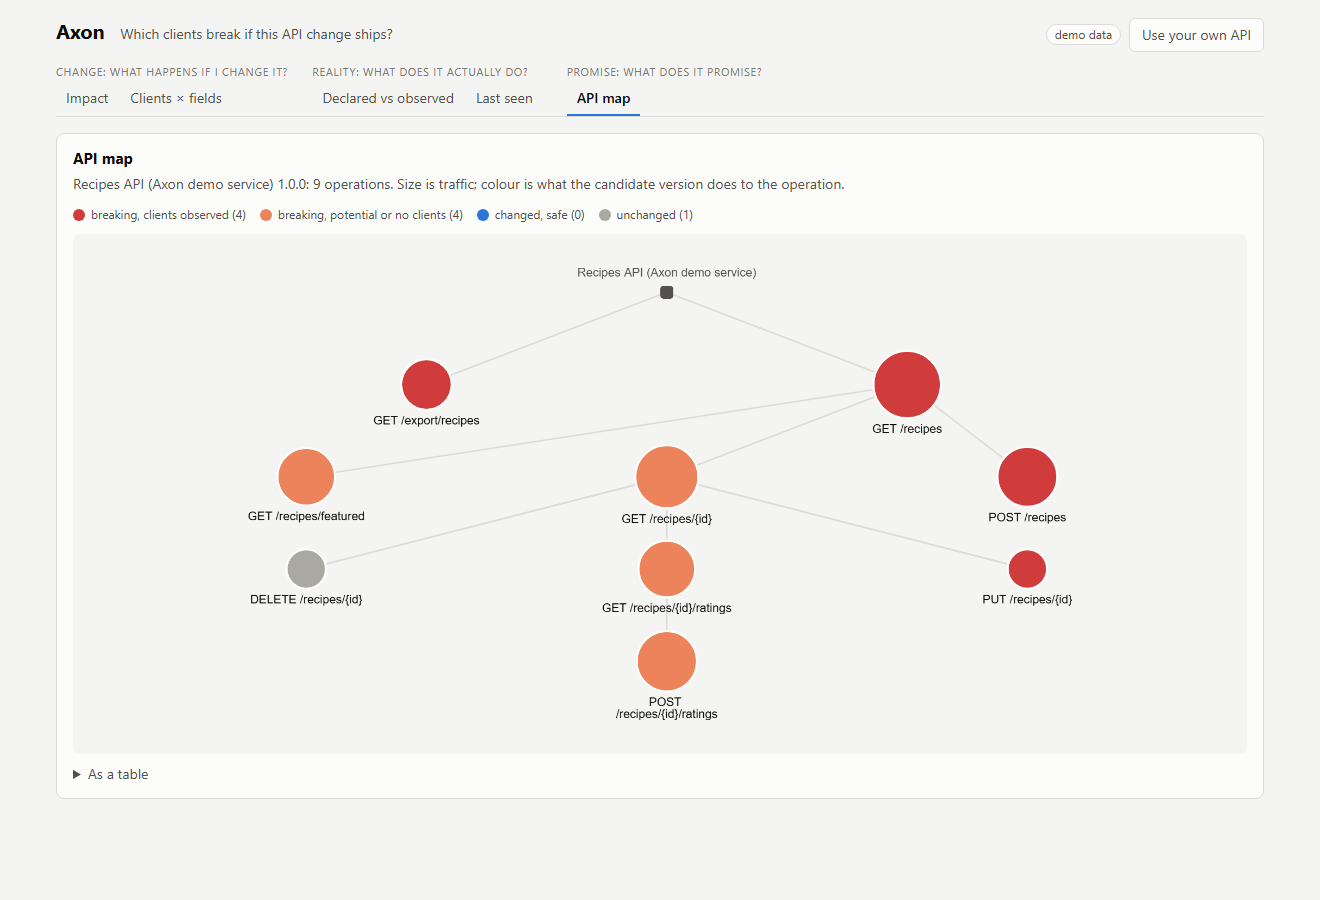
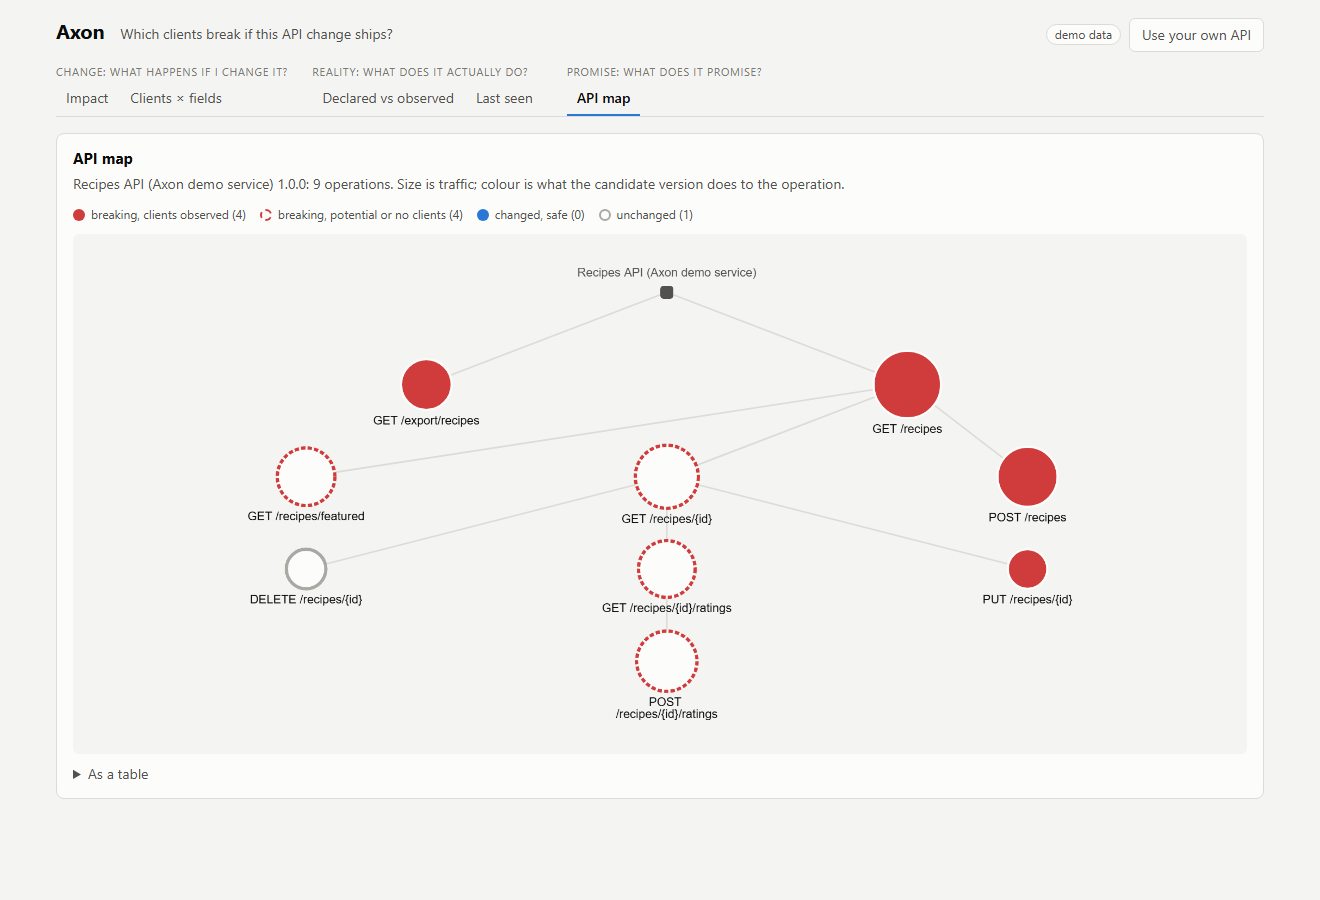
fix(web): API map uses two validated fills; potential is a dashed ring

diff --git a/web/src/views/ApiMap.tsx b/web/src/views/ApiMap.tsx
@@ -49,7 +49,7 @@ export function ApiMap({ bundle }: { bundle: Bundle }) {
     if (!container.current) return;
     const colors: Record<State, string> = {
       breaking_observed: css("--critical"),
-      breaking_potential: css("--serious"),
+      breaking_potential: css("--critical"),
       changed_safe: css("--observed"),
       unchanged: css("--never"),
     };
@@ -85,7 +85,12 @@ export function ApiMap({ bundle }: { bundle: Bundle }) {
           data: {
             id: o.key,
             label: o.key,
-            color: colors[o.state],
+            // Two fills only (red, blue), which the palette validator passes in both modes. "Potential" is a
+            // dashed red ring, as potential is dashed everywhere else; "unchanged" is a grey ring.
+            color: o.state === "breaking_observed" || o.state === "changed_safe" ? colors[o.state] : css("--surface-1"),
+            ring: o.state === "breaking_observed" || o.state === "changed_safe" ? css("--surface-1") : colors[o.state],
+            dash: o.state === "breaking_potential" ? "dashed" : "solid",
+            ringWidth: o.state === "breaking_observed" || o.state === "changed_safe" ? 2 : 3,
             size: 22 + 40 * (Math.log(o.calls + 1) / Math.log(max + 1)),
           },
         })),
@@ -105,8 +110,9 @@ export function ApiMap({ bundle }: { bundle: Bundle }) {
             "text-margin-y": 5,
             "text-wrap": "wrap",
             "text-max-width": "120px",
-            "border-width": 2,
-            "border-color": css("--surface-1"),
+            "border-width": "data(ringWidth)",
+            "border-color": "data(ring)",
+            "border-style": "data(dash)" as never,
           },
         },
         {
@@ -151,8 +157,8 @@ export function ApiMap({ bundle }: { bundle: Bundle }) {
           <span key={s} className="key">
             <span className="swatch" style={{
               borderRadius: "50%",
-              background: s === "breaking_observed" ? "var(--critical)" : s === "breaking_potential" ? "var(--serious)"
-                : s === "changed_safe" ? "var(--observed)" : "var(--never)",
+              background: s === "breaking_observed" ? "var(--critical)" : s === "changed_safe" ? "var(--observed)" : "transparent",
+              border: s === "breaking_potential" ? "2px dashed var(--critical)" : s === "unchanged" ? "2px solid var(--never)" : undefined,
             }} />
             {STATE_TEXT[s]} ({operations.filter((o) => o.state === s).length})
           </span>

diff --git a/web/src/theme.css b/web/src/theme.css
@@ -43,6 +43,7 @@
     --potential: #86b6ef;
     --undocumented: #d95926;
     --never: #6b6a65;
+    --critical: #e66767;
     --ramp-1: #104281;
     --ramp-2: #184f95;
     --ramp-3: #256abf;
